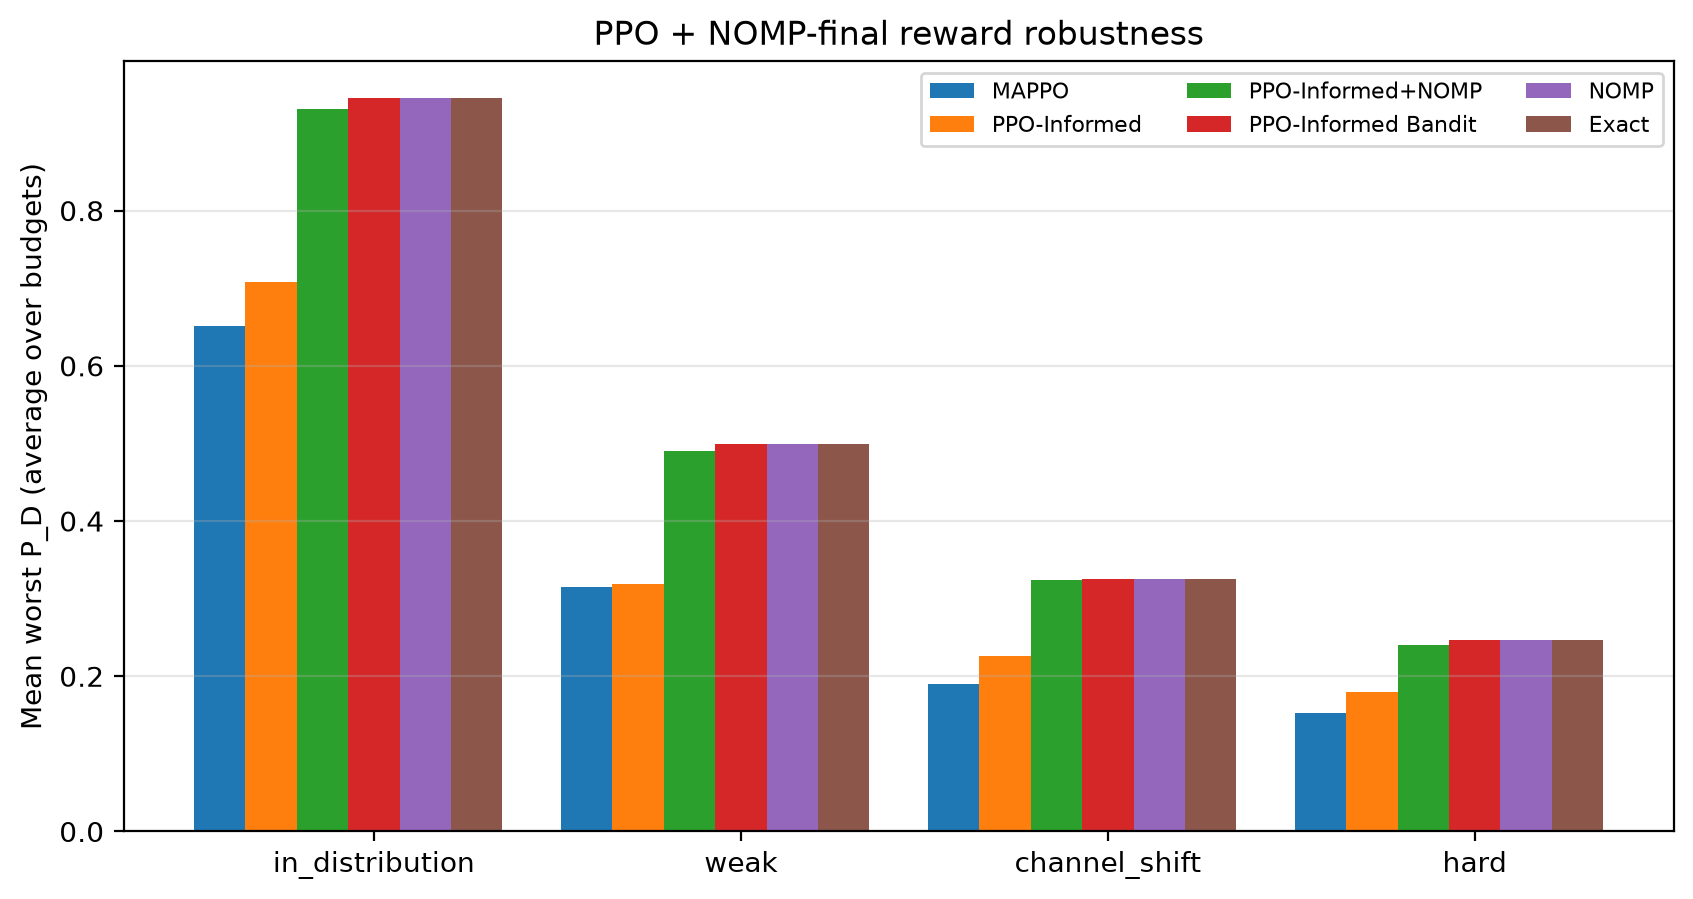
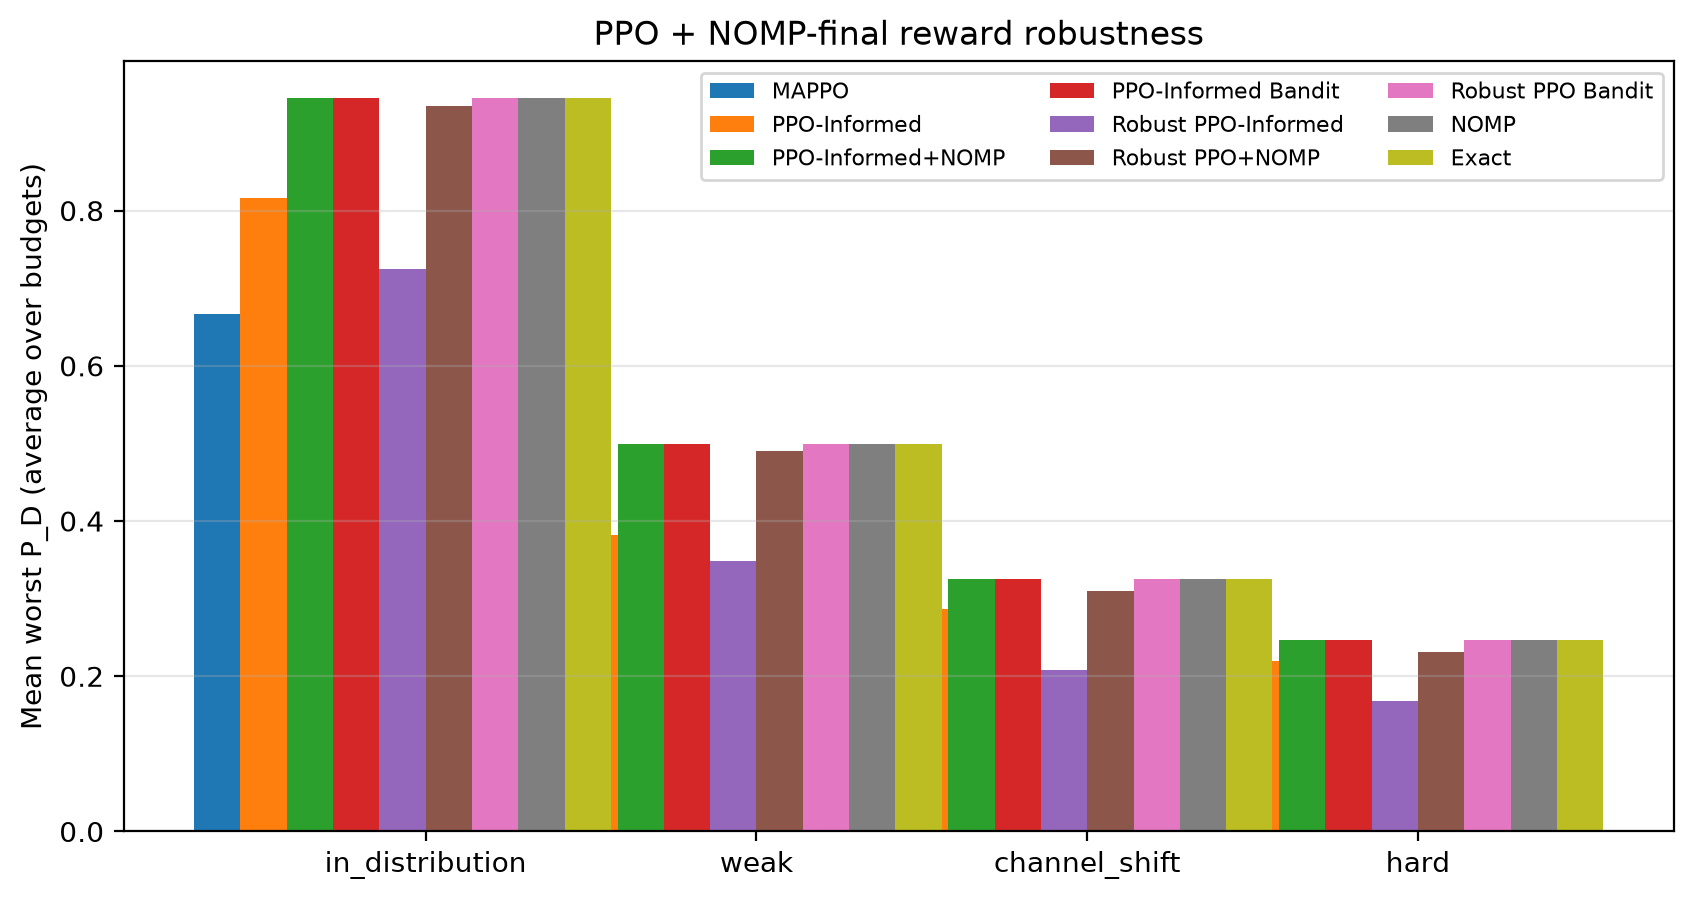
Evaluate robust curriculum PPO under hard channels

diff --git a/scripts/run_joint_power_comparison.py b/scripts/run_joint_power_comparison.py
@@ -288,9 +288,14 @@ def train_mappo_ppo(
     entropy_coef: float = 0.01,
     learning_rate: float = 1e-3,
     reward_mode: str = "raw",
+    state_builder=None,
 ):
     """Real PPO: clipped surrogate, mini-batches, normalized advantages."""
-    state_dim = reports + 2
+    if state_builder is None:
+        state_builder = lambda target, budget: state(
+            float(target[0]), target[1:], budget
+        )
+    state_dim = len(state_builder(scenarios[0][0], budget))
     actor = Actor(state_dim, reports, power_options=budget + 1)
     critic = Critic(state_dim * len(scenarios[0]))
     actor_opt = torch.optim.Adam(
@@ -303,7 +308,7 @@ def train_mappo_ppo(
 
     for episode in range(episodes):
         scenario = scenarios[episode % len(scenarios)]
-        states = [state(float(t[0]), t[1:], budget) for t in scenario]
+        states = [state_builder(t, budget) for t in scenario]
         global_state = np.concatenate(states)
         agent_states = torch.as_tensor(
             np.stack(states), dtype=torch.float32
@@ -332,13 +337,19 @@ def train_mappo_ppo(
             value = float(critic(torch.as_tensor(
                 global_state, dtype=torch.float32
             )))
-        pds = [
-            pd_value(float(t[0]), t[1:], powers[q].numpy(), bits[q].numpy())
-            for q, t in enumerate(scenario)
-        ]
-        used = int(powers.sum().item() + bits.sum().item())
-        reward = float(np.min(pds)) - 0.1 * max(0, used - budget)
-        if reward_mode == "nomp":
+        if reward_mode == "raw":
+            pds = [
+                pd_value(
+                    float(t[0]),
+                    t[1:],
+                    powers[q].numpy(),
+                    bits[q].numpy(),
+                )
+                for q, t in enumerate(scenario)
+            ]
+            used = int(powers.sum().item() + bits.sum().item())
+            reward = float(np.min(pds)) - 0.1 * max(0, used - budget)
+        else:
             proposal_powers = powers.numpy()
             proposal_bits = bits.numpy()
             proposal_powers, proposal_bits = _feasible_from_mappo(
@@ -521,6 +532,41 @@ def evaluate_robust_mappo(actor, scenarios, budget, reports):
         )
         pds = nomp.target_scores(scenario, powers, bits, GRID)
         worsts.append(float(np.min(pds)))
+    return float(np.mean(worsts))
+
+
+def evaluate_robust_mappo_nomp(actor, scenarios, budget, reports):
+    """Channel-aware MAPPO proposal refined by NOMP."""
+    worsts = []
+    for scenario in scenarios:
+        states = [robust_state(t, budget) for t in scenario]
+        with torch.no_grad():
+            logits_b, logits_p = actor(torch.as_tensor(
+                np.stack(states), dtype=torch.float32
+            ))
+            bits = torch.stack([
+                torch.argmax(logits_b[:, r, :], dim=1)
+                for r in range(reports)
+            ], dim=1).numpy()
+            powers = torch.stack([
+                torch.argmax(logits_p[:, r, :], dim=1)
+                for r in range(reports)
+            ], dim=1).numpy()
+        powers, bits = _feasible_from_mappo(
+            scenario, powers, bits, budget
+        )
+        powers, bits, _ = nomp.maxmin_refine(
+            scenario,
+            powers,
+            bits,
+            max_power=budget,
+            max_bits=MAX_BITS,
+            max_rounds=100,
+            grid=GRID,
+        )
+        worsts.append(float(min(nomp.target_scores(
+            scenario, powers, bits, GRID
+        ))))
     return float(np.mean(worsts))
 
 

diff --git a/scripts/run_ppo_nomp_reward_robustness_gate.py b/scripts/run_ppo_nomp_reward_robustness_gate.py
@@ -29,6 +29,8 @@ from scripts.run_joint_power_comparison import (
     evaluate_mappo,
     evaluate_mappo_bandit_adapter_nomp,
     evaluate_mappo_nomp,
+    evaluate_robust_mappo,
+    evaluate_robust_mappo_nomp,
     make_scenario,
     robust_state,
     train_mappo,
@@ -112,6 +114,31 @@ def main() -> None:
             learning_rate=1e-3,
             reward_mode="nomp",
         )
+        curriculum = []
+        for seed in range(args.train_seeds):
+            curriculum.append(clean_to_tuple(
+                make_scenario(seed, 2, 2, heterogeneous=True)
+            ))
+            curriculum.append(clean_to_tuple(
+                make_shifted_clean(seed, 2, 2, "weak")
+            ))
+            curriculum.append(clean_to_tuple(
+                make_shifted_clean(seed, 2, 2, "strong")
+            ))
+            curriculum.append(make_comm_mismatch_scenario(
+                seed, 2, 2, flip_hi=0.5, success_lo=0.3
+            ))
+        robust_ppo_informed = train_mappo_ppo(
+            curriculum,
+            budget,
+            args.episodes,
+            2,
+            ppo_epochs=2,
+            entropy_coef=0.05,
+            learning_rate=1e-3,
+            reward_mode="nomp",
+            state_builder=robust_state,
+        )
         for env, scenarios in environments.items():
             mappo_scenarios = []
             for scenario in scenarios:
@@ -148,6 +175,19 @@ def main() -> None:
                 2,
                 state_scenarios=mappo_scenarios,
             )
+            robust_informed = evaluate_robust_mappo(
+                robust_ppo_informed, scenarios, budget, 2
+            )
+            robust_informed_nomp = evaluate_robust_mappo_nomp(
+                robust_ppo_informed, scenarios, budget, 2
+            )
+            robust_informed_bandit = evaluate_mappo_bandit_adapter_nomp(
+                robust_ppo_informed,
+                scenarios,
+                budget,
+                2,
+                state_builder=robust_state,
+            )
             nomp = []
             exact = []
             for scenario in scenarios:
@@ -169,6 +209,13 @@ def main() -> None:
                 "ppo_informed_worst_mean": float(informed),
                 "ppo_informed_nomp_worst_mean": float(informed_nomp),
                 "ppo_informed_bandit_worst_mean": float(informed_bandit),
+                "robust_ppo_informed_worst_mean": float(robust_informed),
+                "robust_ppo_informed_nomp_worst_mean": float(
+                    robust_informed_nomp
+                ),
+                "robust_ppo_informed_bandit_worst_mean": float(
+                    robust_informed_bandit
+                ),
                 "nomp_worst_mean": float(np.mean(nomp)),
                 "exact_worst_mean": float(np.mean(exact)),
             })
@@ -191,6 +238,9 @@ def main() -> None:
         ("ppo_informed_worst_mean", "PPO-Informed"),
         ("ppo_informed_nomp_worst_mean", "PPO-Informed+NOMP"),
         ("ppo_informed_bandit_worst_mean", "PPO-Informed Bandit"),
+        ("robust_ppo_informed_worst_mean", "Robust PPO-Informed"),
+        ("robust_ppo_informed_nomp_worst_mean", "Robust PPO+NOMP"),
+        ("robust_ppo_informed_bandit_worst_mean", "Robust PPO Bandit"),
         ("nomp_worst_mean", "NOMP"),
         ("exact_worst_mean", "Exact"),
     ]

diff --git a/scripts/summarize_joint_power_results.py b/scripts/summarize_joint_power_results.py
@@ -249,7 +249,7 @@ def main() -> None:
 
     print_table(
         "PPO + NOMP-final reward robustness (average over budgets)",
-        ["Environment", "MAPPO", "PPO-Informed", "PPO+NOMP", "Bandit", "Exact"],
+        ["Environment", "MAPPO", "PPO-Informed", "PPO+NOMP", "Bandit", "Robust PPO", "Robust PPO+NOMP", "Robust Bandit", "Exact"],
         [[
             env,
             round(np.mean([
@@ -266,6 +266,18 @@ def main() -> None:
             ]), 4),
             round(np.mean([
                 row["ppo_informed_bandit_worst_mean"] for row in ppo_robust["rows"]
+                if row["environment"] == env
+            ]), 4),
+            round(np.mean([
+                row["robust_ppo_informed_worst_mean"] for row in ppo_robust["rows"]
+                if row["environment"] == env
+            ]), 4),
+            round(np.mean([
+                row["robust_ppo_informed_nomp_worst_mean"] for row in ppo_robust["rows"]
+                if row["environment"] == env
+            ]), 4),
+            round(np.mean([
+                row["robust_ppo_informed_bandit_worst_mean"] for row in ppo_robust["rows"]
                 if row["environment"] == env
             ]), 4),
             round(np.mean([

diff --git a/README.md b/README.md
@@ -396,6 +396,11 @@ Standalone PPO-Informed improves over vanilla MAPPO in most cells; the
 proposal-plus-refine hybrid stays close to NOMP; and `PPO-Informed Bandit`
 (with the pure NOMP fallback) equals NOMP/Exact in every environment:
 in-distribution 0.945, weak 0.500, channel-shift 0.326, hard channel 0.246.
+A curriculum-trained, channel-aware PPO variant was also evaluated; its
+standalone policy remains unstable in this toy setting, and its
+proposal-plus-refine hybrid does not consistently beat the simpler
+PPO-Informed+NOMP.  The robustness guarantee therefore still comes from the
+NOMP fallback rather than from the learned policy.
 
 ![PPO robustness](paper_figures/ppo_nomp_reward_robustness.png)
 
